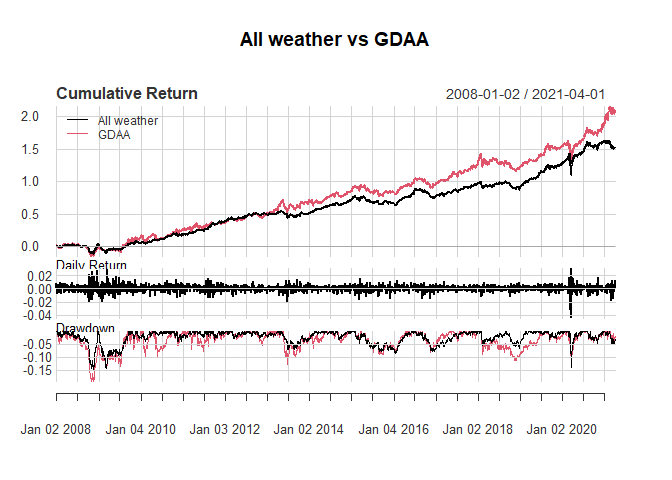
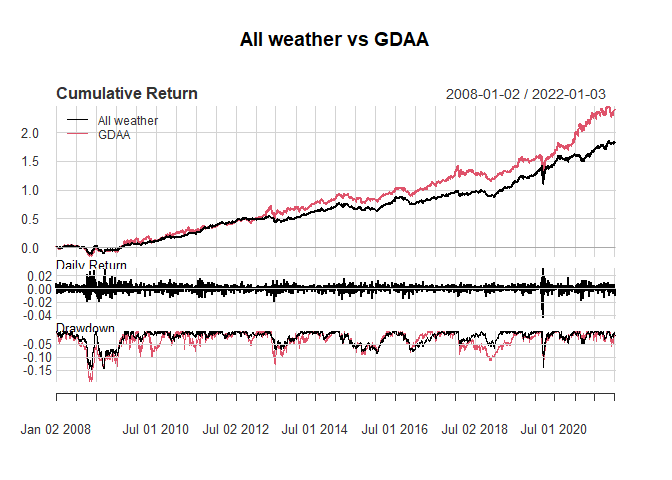
updates

diff --git a/all_weather.md b/all_weather.md
@@ -84,8 +84,8 @@ names(Port_all_net) = 'Returns_allweather'
 ### Summarization(All weather)
 
 |             | Cummulative\_return | Annualized\_return | Max\_drawdown | Annualized\_std |
-| ----------- | ------------------: | -----------------: | ------------: | --------------: |
-| All Weather |             1.54539 |          0.0735016 |       0.14482 |       0.0763433 |
+|-------------|--------------------:|-------------------:|--------------:|----------------:|
+| All Weather |            1.806179 |          0.0766178 |     0.1448199 |       0.0759251 |
 
 Table1: Summarization(All weather
 
@@ -217,51 +217,51 @@ names(Port_gdaa_net) = 'Returns_gdaa'
 ### Dynamics of weights
 
 |            |       QQQ |       IEV |       EWJ |       EEM |       TLT | IEF |       IYR |       RWX |       GLD |       DBC |
-| ---------- | --------: | --------: | --------: | --------: | --------: | --: | --------: | --------: | --------: | --------: |
-| 2018-05-31 | 0.1000000 | 0.0000000 | 0.2000000 | 0.1000000 | 0.0000000 | 0.0 | 0.0000000 | 0.3000000 | 0.0000000 | 0.3000000 |
-| 2018-06-29 | 0.1000000 | 0.0000000 | 0.1000000 | 0.0000000 | 0.0000000 | 0.0 | 0.2093451 | 0.2906549 | 0.0000000 | 0.3000000 |
-| 2018-07-31 | 0.1000000 | 0.1000000 | 0.0000000 | 0.0000000 | 0.0000000 | 0.0 | 0.2531708 | 0.2468292 | 0.0000000 | 0.3000000 |
-| 2018-08-31 | 0.1000000 | 0.0000000 | 0.0000000 | 0.0000000 | 0.3000000 | 0.0 | 0.1131102 | 0.2454832 | 0.0000000 | 0.2414065 |
-| 2018-09-28 | 0.1000000 | 0.0000000 | 0.1000000 | 0.0000000 | 0.0000000 | 0.3 | 0.2200581 | 0.0000000 | 0.0000000 | 0.2799419 |
-| 2018-10-31 | 0.1000000 | 0.0000000 | 0.0000000 | 0.0000000 | 0.0000000 | 0.3 | 0.1603288 | 0.0000000 | 0.3000000 | 0.1396712 |
-| 2018-11-30 | 0.1000000 | 0.0000000 | 0.0000000 | 0.0000000 | 0.2084998 | 0.3 | 0.1000000 | 0.0000000 | 0.2915002 | 0.0000000 |
-| 2018-12-31 | 0.0000000 | 0.0000000 | 0.0000000 | 0.0000000 | 0.2027621 | 0.3 | 0.1000000 | 0.1372327 | 0.2600052 | 0.0000000 |
-| 2019-01-31 | 0.0000000 | 0.0000000 | 0.0000000 | 0.0000000 | 0.2083353 | 0.3 | 0.1000000 | 0.1447298 | 0.2469349 | 0.0000000 |
-| 2019-02-28 | 0.0000000 | 0.0000000 | 0.0000000 | 0.0000000 | 0.2006457 | 0.3 | 0.1000000 | 0.2024420 | 0.1969124 | 0.0000000 |
+|------------|----------:|----------:|----------:|----------:|----------:|----:|----------:|----------:|----------:|----------:|
+| 2019-02-28 | 0.0000000 | 0.0000000 | 0.0000000 | 0.0000000 | 0.2006476 | 0.3 | 0.1000000 | 0.2024414 | 0.1969110 | 0.0000000 |
 | 2019-03-29 | 0.1000000 | 0.0000000 | 0.0000000 | 0.0000000 | 0.3000000 | 0.3 | 0.1000000 | 0.2000000 | 0.0000000 | 0.0000000 |
-| 2019-04-30 | 0.1000000 | 0.0000000 | 0.0000000 | 0.1116096 | 0.3000000 | 0.3 | 0.1883904 | 0.0000000 | 0.0000000 | 0.0000000 |
-| 2019-05-31 | 0.0000000 | 0.0000000 | 0.0000000 | 0.0000000 | 0.2172940 | 0.3 | 0.1000000 | 0.2200057 | 0.1627003 | 0.0000000 |
-| 2019-06-28 | 0.1101337 | 0.0000000 | 0.0000000 | 0.0000000 | 0.2651465 | 0.3 | 0.1000000 | 0.0000000 | 0.2247198 | 0.0000000 |
-| 2019-07-31 | 0.1192642 | 0.0000000 | 0.0000000 | 0.0000000 | 0.3000000 | 0.3 | 0.1000000 | 0.0000000 | 0.1807358 | 0.0000000 |
-| 2019-08-30 | 0.1369431 | 0.0000000 | 0.0000000 | 0.0000000 | 0.2766792 | 0.3 | 0.1007334 | 0.0000000 | 0.1856443 | 0.0000000 |
-| 2019-09-30 | 0.1500561 | 0.0000000 | 0.0000000 | 0.0000000 | 0.2610109 | 0.3 | 0.1066334 | 0.0000000 | 0.1822996 | 0.0000000 |
+| 2019-04-30 | 0.1000000 | 0.0000000 | 0.0000000 | 0.1116098 | 0.3000000 | 0.3 | 0.1883902 | 0.0000000 | 0.0000000 | 0.0000000 |
+| 2019-05-31 | 0.0000000 | 0.0000000 | 0.0000000 | 0.0000000 | 0.2172958 | 0.3 | 0.1000000 | 0.2200061 | 0.1626981 | 0.0000000 |
+| 2019-06-28 | 0.1101341 | 0.0000000 | 0.0000000 | 0.0000000 | 0.2651479 | 0.3 | 0.1000000 | 0.0000000 | 0.2247180 | 0.0000000 |
+| 2019-07-31 | 0.1192644 | 0.0000000 | 0.0000000 | 0.0000000 | 0.3000000 | 0.3 | 0.1000000 | 0.0000000 | 0.1807356 | 0.0000000 |
+| 2019-08-30 | 0.1369431 | 0.0000000 | 0.0000000 | 0.0000000 | 0.2766801 | 0.3 | 0.1007329 | 0.0000000 | 0.1856438 | 0.0000000 |
+| 2019-09-30 | 0.1500561 | 0.0000000 | 0.0000000 | 0.0000000 | 0.2610115 | 0.3 | 0.1066332 | 0.0000000 | 0.1822993 | 0.0000000 |
 | 2019-10-31 | 0.1000000 | 0.0000000 | 0.0000000 | 0.0000000 | 0.3000000 | 0.0 | 0.1000000 | 0.3000000 | 0.2000000 | 0.0000000 |
-| 2019-11-29 | 0.1000000 | 0.0000000 | 0.2533260 | 0.0000000 | 0.3000000 | 0.0 | 0.1000000 | 0.0000000 | 0.2466740 | 0.0000000 |
-| 2019-12-31 | 0.1000000 | 0.1000000 | 0.2448792 | 0.0000000 | 0.0000000 | 0.0 | 0.2551208 | 0.0000000 | 0.3000000 | 0.0000000 |
-| 2020-01-31 | 0.1110606 | 0.3000000 | 0.0000000 | 0.0000000 | 0.3000000 | 0.0 | 0.1000000 | 0.0000000 | 0.1889394 | 0.0000000 |
-| 2020-02-28 | 0.2465706 | 0.0000000 | 0.0000000 | 0.0000000 | 0.2029614 | 0.3 | 0.1000000 | 0.0000000 | 0.1504680 | 0.0000000 |
-| 2020-03-31 | 0.1000000 | 0.0000000 | 0.2028029 | 0.0000000 | 0.2139728 | 0.3 | 0.0000000 | 0.0000000 | 0.1832242 | 0.0000000 |
-| 2020-04-30 | 0.1000000 | 0.0000000 | 0.1846293 | 0.0000000 | 0.2352361 | 0.3 | 0.0000000 | 0.0000000 | 0.1801346 | 0.0000000 |
-| 2020-05-29 | 0.1003342 | 0.0000000 | 0.1901934 | 0.0000000 | 0.2362477 | 0.3 | 0.0000000 | 0.0000000 | 0.1732248 | 0.0000000 |
-| 2020-06-30 | 0.1380667 | 0.0000000 | 0.0000000 | 0.1000000 | 0.2564657 | 0.3 | 0.0000000 | 0.0000000 | 0.2054676 | 0.0000000 |
-| 2020-07-31 | 0.1307708 | 0.0000000 | 0.0000000 | 0.1000000 | 0.2524699 | 0.3 | 0.0000000 | 0.0000000 | 0.2167593 | 0.0000000 |
+| 2019-11-29 | 0.1000000 | 0.0000000 | 0.2533255 | 0.0000000 | 0.3000000 | 0.0 | 0.1000000 | 0.0000000 | 0.2466745 | 0.0000000 |
+| 2019-12-31 | 0.1000000 | 0.1000000 | 0.2448779 | 0.0000000 | 0.0000000 | 0.0 | 0.2551221 | 0.0000000 | 0.3000000 | 0.0000000 |
+| 2020-01-31 | 0.1110609 | 0.3000000 | 0.0000000 | 0.0000000 | 0.3000000 | 0.0 | 0.1000000 | 0.0000000 | 0.1889391 | 0.0000000 |
+| 2020-02-28 | 0.2465709 | 0.0000000 | 0.0000000 | 0.0000000 | 0.2029607 | 0.3 | 0.1000000 | 0.0000000 | 0.1504684 | 0.0000000 |
+| 2020-03-31 | 0.1000000 | 0.0000000 | 0.2028030 | 0.0000000 | 0.2139727 | 0.3 | 0.0000000 | 0.0000000 | 0.1832244 | 0.0000000 |
+| 2020-04-30 | 0.1000000 | 0.0000000 | 0.1846295 | 0.0000000 | 0.2352359 | 0.3 | 0.0000000 | 0.0000000 | 0.1801346 | 0.0000000 |
+| 2020-05-29 | 0.1003347 | 0.0000000 | 0.1901929 | 0.0000000 | 0.2362475 | 0.3 | 0.0000000 | 0.0000000 | 0.1732249 | 0.0000000 |
+| 2020-06-30 | 0.1380669 | 0.0000000 | 0.0000000 | 0.1000000 | 0.2564655 | 0.3 | 0.0000000 | 0.0000000 | 0.2054676 | 0.0000000 |
+| 2020-07-31 | 0.1307709 | 0.0000000 | 0.0000000 | 0.1000000 | 0.2524696 | 0.3 | 0.0000000 | 0.0000000 | 0.2167594 | 0.0000000 |
 | 2020-08-31 | 0.1000000 | 0.0000000 | 0.2000000 | 0.1000000 | 0.3000000 | 0.0 | 0.0000000 | 0.0000000 | 0.3000000 | 0.0000000 |
 | 2020-09-30 | 0.1000000 | 0.0000000 | 0.2000000 | 0.1000000 | 0.3000000 | 0.0 | 0.0000000 | 0.0000000 | 0.3000000 | 0.0000000 |
 | 2020-10-30 | 0.1000000 | 0.0000000 | 0.2000000 | 0.1000000 | 0.0000000 | 0.3 | 0.0000000 | 0.0000000 | 0.3000000 | 0.0000000 |
-| 2020-11-30 | 0.1583065 | 0.1000000 | 0.3000000 | 0.1416935 | 0.0000000 | 0.0 | 0.0000000 | 0.0000000 | 0.0000000 | 0.3000000 |
-| 2020-12-31 | 0.1689521 | 0.1000000 | 0.3000000 | 0.1310479 | 0.0000000 | 0.0 | 0.0000000 | 0.0000000 | 0.0000000 | 0.3000000 |
-| 2021-01-29 | 0.1672762 | 0.1000000 | 0.3000000 | 0.1327238 | 0.0000000 | 0.0 | 0.0000000 | 0.0000000 | 0.0000000 | 0.3000000 |
-| 2021-02-26 | 0.1908187 | 0.1000000 | 0.3000000 | 0.1091813 | 0.0000000 | 0.0 | 0.0000000 | 0.0000000 | 0.0000000 | 0.3000000 |
-| 2021-03-31 | 0.1255540 | 0.1744460 | 0.3000000 | 0.1000000 | 0.0000000 | 0.0 | 0.0000000 | 0.0000000 | 0.0000000 | 0.3000000 |
-| 2021-04-01 | 0.1287679 | 0.2554482 | 0.0000000 | 0.1337846 | 0.0000000 | 0.0 | 0.1819993 | 0.0000000 | 0.0000000 | 0.3000000 |
+| 2020-11-30 | 0.1583077 | 0.1000000 | 0.3000000 | 0.1416923 | 0.0000000 | 0.0 | 0.0000000 | 0.0000000 | 0.0000000 | 0.3000000 |
+| 2020-12-31 | 0.1689533 | 0.1000000 | 0.3000000 | 0.1310467 | 0.0000000 | 0.0 | 0.0000000 | 0.0000000 | 0.0000000 | 0.3000000 |
+| 2021-01-29 | 0.1672773 | 0.1000000 | 0.3000000 | 0.1327227 | 0.0000000 | 0.0 | 0.0000000 | 0.0000000 | 0.0000000 | 0.3000000 |
+| 2021-02-26 | 0.1908197 | 0.1000000 | 0.3000000 | 0.1091803 | 0.0000000 | 0.0 | 0.0000000 | 0.0000000 | 0.0000000 | 0.3000000 |
+| 2021-03-31 | 0.1255532 | 0.1744468 | 0.3000000 | 0.1000000 | 0.0000000 | 0.0 | 0.0000000 | 0.0000000 | 0.0000000 | 0.3000000 |
+| 2021-04-30 | 0.1271331 | 0.2423838 | 0.0000000 | 0.1325354 | 0.0000000 | 0.0 | 0.1979476 | 0.0000000 | 0.0000000 | 0.3000000 |
+| 2021-05-28 | 0.0000000 | 0.1000000 | 0.0000000 | 0.1116867 | 0.0000000 | 0.0 | 0.1883133 | 0.3000000 | 0.0000000 | 0.3000000 |
+| 2021-06-30 | 0.1000000 | 0.1000000 | 0.0000000 | 0.0000000 | 0.0000000 | 0.0 | 0.2158577 | 0.2841423 | 0.0000000 | 0.3000000 |
+| 2021-07-30 | 0.1000000 | 0.1000000 | 0.0000000 | 0.0000000 | 0.0000000 | 0.0 | 0.2230897 | 0.2810674 | 0.0000000 | 0.2958428 |
+| 2021-08-31 | 0.1000000 | 0.1000000 | 0.0000000 | 0.0000000 | 0.0000000 | 0.0 | 0.2341940 | 0.3000000 | 0.0000000 | 0.2658060 |
+| 2021-09-30 | 0.1000000 | 0.1000000 | 0.2314021 | 0.0000000 | 0.0000000 | 0.0 | 0.3000000 | 0.0000000 | 0.0000000 | 0.2685979 |
+| 2021-10-29 | 0.1178058 | 0.1000000 | 0.0000000 | 0.0000000 | 0.0000000 | 0.0 | 0.2859022 | 0.2597116 | 0.0000000 | 0.2365803 |
+| 2021-11-30 | 0.1000000 | 0.2559906 | 0.0000000 | 0.0000000 | 0.3000000 | 0.0 | 0.1895413 | 0.0000000 | 0.0000000 | 0.1544681 |
+| 2021-12-31 | 0.1000000 | 0.2764003 | 0.0000000 | 0.0000000 | 0.3000000 | 0.0 | 0.1798085 | 0.0000000 | 0.0000000 | 0.1437912 |
+| 2022-01-03 | 0.1000000 | 0.2372232 | 0.0000000 | 0.0000000 | 0.0000000 | 0.0 | 0.2627768 | 0.0000000 | 0.3000000 | 0.1000000 |
 
 Table2: Weights
 
 ### Summarization(GDAA)
 
 |      | Cummulative\_return | Annualized\_return | Max\_drawdown | Annualized\_std |
-| ---- | ------------------: | -----------------: | ------------: | --------------: |
-| GDAA |            2.103894 |           0.091282 |      0.192642 |        0.106768 |
+|------|--------------------:|-------------------:|--------------:|----------------:|
+| GDAA |            2.386792 |          0.0928863 |     0.1926418 |       0.1068098 |
 
 Table3: Summarization(GDAA)
 
@@ -280,6 +280,6 @@ charts.PerformanceSummary(portfolios, main = 'All weather vs GDAA')
 ### Summarization(All Weather vs GDAA)
 
 |             | Annualized\_return | Cummulative\_return | Max\_drawdown | Annualized\_std |
-| ----------- | -----------------: | ------------------: | ------------: | --------------: |
-| All Weather |          0.0735016 |            1.545390 |      0.144820 |       0.0763433 |
-| GDAA        |          0.0912820 |            2.103894 |      0.192642 |       0.1067680 |
+|-------------|-------------------:|--------------------:|--------------:|----------------:|
+| All Weather |          0.0766178 |            1.806179 |     0.1448199 |       0.0759251 |
+| GDAA        |          0.0928863 |            2.386792 |     0.1926418 |       0.1068098 |
